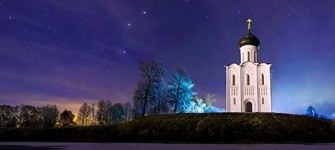
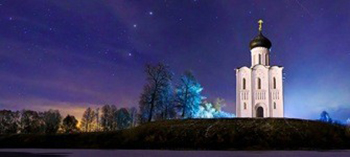
Col-md-8 fix tryout

diff --git a/place_no_schedule.css b/place_no_schedule.css
@@ -306,7 +306,8 @@ a:hover:after {
   
 /* Content Pictures with popup */
     .content_wrappa {
-      max-width: 675px;
+      max-width: 725px;
+      max-width: 100%;
       margin-left: -10px;
     }
 
@@ -317,35 +318,25 @@ a:hover:after {
     }
 
     .content_block {
-      max-width: 49.51%;
+      max-width: 49%;
       height: auto;
     }
 
     .content_block_big {
       position: relative;
       max-width: 100%;
-    }
-
-    .content_block.block2 {
-      margin-left: 0px !important;
-      margin-right: 0px !important;
-    }
-
-    .content_block_big {
-      max-width: 99.6%;
       margin-top: 0px;
       margin-right: 0px !important;
       padding: 0px !important;
     }
 
     .content_block img {
-      width: 335px;
-      height: 150px;
+      width: 350px;
+      height: auto;
     }
 
     .content_block_big img {
-      width: 677px;
-      height: 150px;
+      height: auto;
     }
     
     .content_block img, .content_block_big img {
@@ -931,6 +922,10 @@ a:hover:after {
       max-width: 99%;
     }
 
+    .content_block_big {
+      max-width: 98.6%;
+    }
+
     .col-md-4 {
       float: right;
       margin-right: 5px;
@@ -960,6 +955,10 @@ a:hover:after {
       font-size: 14px;
       margin-top: -5px;
       margin-left: -5px;
+    }
+
+    .content_block_big {
+      max-width: 98.7%;
     }
 
     h1 {
@@ -1045,10 +1044,8 @@ a:hover:after {
       float: left !important;
     }
 
-    .col-md-8 p {
-      font-size: 13.5px;
-      line-height: 1.45em;
-      max-width: 99%;
+    .content_block_big {
+      max-width: 98.65%;
     }
 
     .content_block .place_name, .content_block_big .place_name {
@@ -1184,6 +1181,7 @@ a:hover:after {
     .image_block {
       margin-left: 0;
       margin-right: 0;
+      margin-bottom: 10px;
     }
 
     .content_block .place_name, .content_block_big .place_name {
@@ -1204,7 +1202,7 @@ a:hover:after {
     }
 
     .content_block_big img {
-      width: 800px;
+      width: 810px;
       max-width: 100%;
     }
 
@@ -1453,10 +1451,10 @@ a:hover:after {
     }
 
     .content_block_big {
-      max-width: 99.4%;
+      max-width: 99.8%;
     }
 
-  .content_block .place_name, .content_block_big .place_name {
+    .content_block .place_name, .content_block_big .place_name {
       left: 15px;
       top: 10px;
       width: 130px;

diff --git a/place.css b/place.css
@@ -306,8 +306,8 @@ a:hover:after {
   
 /* Content Pictures with popup */
     .content_wrappa {
-      max-width: 675px;
-      max-width: 99%;
+      max-width: 725px;
+      max-width: 100%;
       margin-left: -10px;
     }
 
@@ -315,39 +315,28 @@ a:hover:after {
       display: inline-block;
       margin-bottom: 4px;
       position: relative;
-      max-width: 100%;
     }
 
     .content_block {
-      max-width: 49.51%;
+      max-width: 49%;
       height: auto;
     }
 
     .content_block_big {
       position: relative;
       max-width: 100%;
-    }
-
-    .content_block.block2 {
-      margin-left: 0px !important;
-      margin-right: 0px !important;
-    }
-
-    .content_block_big {
-      max-width: 99.6%;
       margin-top: 0px;
       margin-right: 0px !important;
       padding: 0px !important;
     }
 
     .content_block img {
-      width: 335px;
-      height: 150px;
+      width: 350px;
+      height: auto;
     }
 
     .content_block_big img {
-      width: 677px;
-      height: 150px;
+      height: auto;
     }
     
     .content_block img, .content_block_big img {
@@ -880,6 +869,10 @@ a:hover:after {
       max-width: 99%;
     }
 
+    .content_block_big {
+      max-width: 98.6%;
+    }
+
     .col-md-4 {
       float: right;
       margin-right: 5px;
@@ -909,6 +902,10 @@ a:hover:after {
       font-size: 14px;
       margin-top: -5px;
       margin-left: -5px;
+    }
+
+    .content_block_big {
+      max-width: 98.7%;
     }
 
     h1 {
@@ -998,6 +995,10 @@ a:hover:after {
       font-size: 13.5px;
       line-height: 1.45em;
       max-width: 99%;
+    }
+
+    .content_block_big {
+      max-width: 98.65%;
     }
 
     .content_block .place_name, .content_block_big .place_name {
@@ -1391,7 +1392,7 @@ a:hover:after {
     }
 
     .content_block_big {
-      max-width: 99.4%;
+      max-width: 99.8%;
     }
 
     .content_block .place_name, .content_block_big .place_name {
